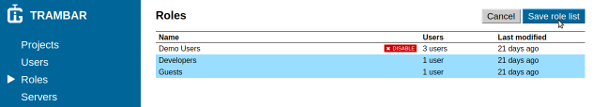
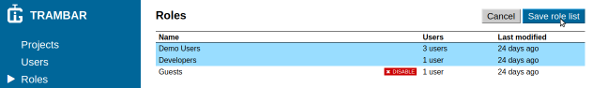
Added instructions and screenshots for Admin - Roles (issue #623).

diff --git a/docs/user-guide-admin.md b/docs/user-guide-admin.md
@@ -255,13 +255,106 @@ adding users](#adding-existing-users) instead.
 
 ### Adding a new role
 
+1. Click **Roles** in the left navigation.
+
+   ![Navigation - Roles](img/admin-settings-nav-roles.png)
+
+2. Click the **Add new role** button.   
+
+   ![Roles - add](img/admin-roles-new.png)
+
+3. Enter the name and description of the role. Select a story priority. Finally,
+   choose the users to whom you wish to assign the new role.
+
+   ![Role form](img/admin-role-form.png)
+
+4. Click the **Save role** button.
+
+   ![Role form - save](img/admin-role-save.png)
+
 ### Disabling roles
 
-![Role list - disable](img/admin-roles-disable-save.png)
+1. Click **Roles** in the left navigation.
+
+   ![Navigation - Roles](img/admin-settings-nav-roles.png)
+
+2. Click the **Edit role list** button.
+
+   ![Role list - edit](img/admin-roles-edit.png)
+
+3. The list will expand to show all roles, including those disabled or deleted
+   earlier. Click the name of each role you wish to disable.
+
+   ![Role list - select](img/admin-roles-disable-select.png)
+
+4. Click the **Save role list** button.
+
+   ![Role list - save](img/admin-roles-disable-save.png)
 
 ### Deleting a role
 
+1. Click **Roles** in the left navigation.
+
+   ![Navigation - Roles](img/admin-settings-nav-roles.png)
+
+2. Click the name of the role you wish to delete.
+
+   ![Roles list](img/admin-roles-choose.png)
+
+3. Click the arrow beside the gray button, then **Delete role**.
+
+   ![Role summary - delete](img/admin-role-delete.png)
+
+If you delete a role by mistake. Use the browser's back button to return to the
+page and click the **Restore role** button.
+
 ### Assigning a role to users
+
+1. Click **Roles** in the left navigation.
+
+   ![Navigation - Roles](img/admin-settings-nav-roles.png)
+
+2. Click the name of the role you wish to assign.
+
+   ![Roles list](img/admin-roles-choose.png)
+
+3. Click the **Edit role** button.
+
+   ![Role summary - edit](img/admin-role-edit.png)
+
+4. Under **Users**, click the name of each user to whom you wish to assign the
+   role.   
+
+   ![Role form - users](img/admin-role-form-users.png)
+
+5. Click the **Save role** button.
+
+   ![Role form - save](img/admin-role-save-2.png)
+
+### Assigning a role automatically to new users   
+
+### Removing users from a role
+
+1. Click **Roles** in the left navigation.
+
+   ![Navigation - Roles](img/admin-settings-nav-roles.png)
+
+2. Click the name of the role you wish to assign.
+
+   ![Roles list](img/admin-roles-choose.png)
+
+3. Click the **Edit role** button.
+
+   ![Role summary - edit](img/admin-role-edit.png)
+
+4. Under **Users**, click the name of each user you wish to remove from the
+   role.   
+
+   ![Role form - users](img/admin-role-form-users-2.png)
+
+5. Click the **Save role** button.
+
+   ![Role form - save](img/admin-role-save-2.png)
 
 ## Servers
 
